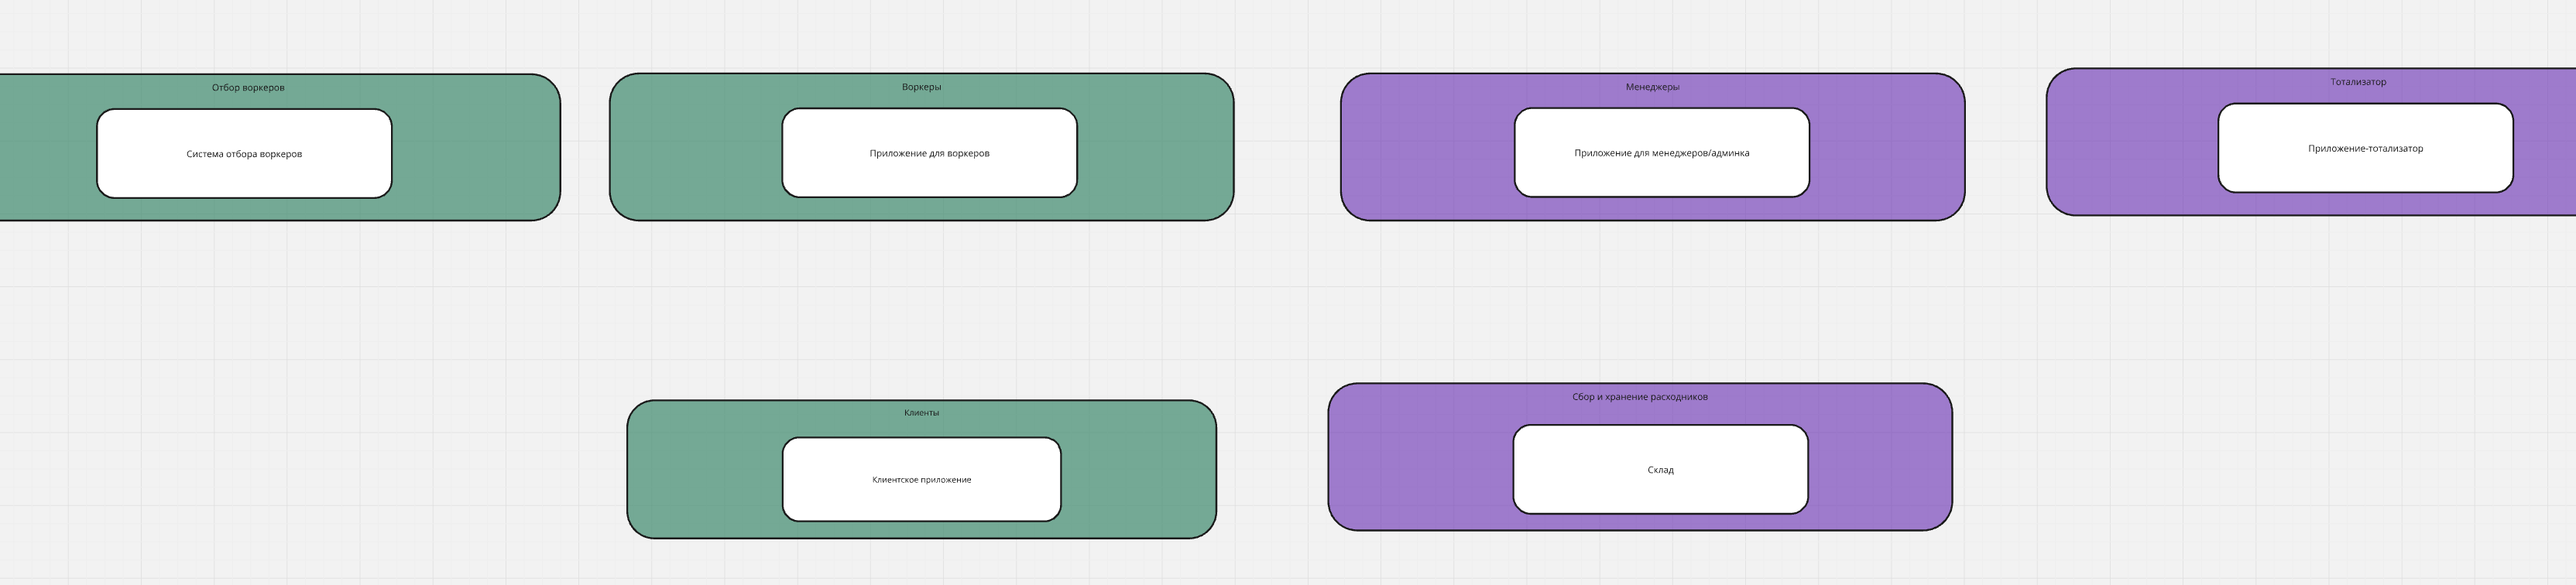
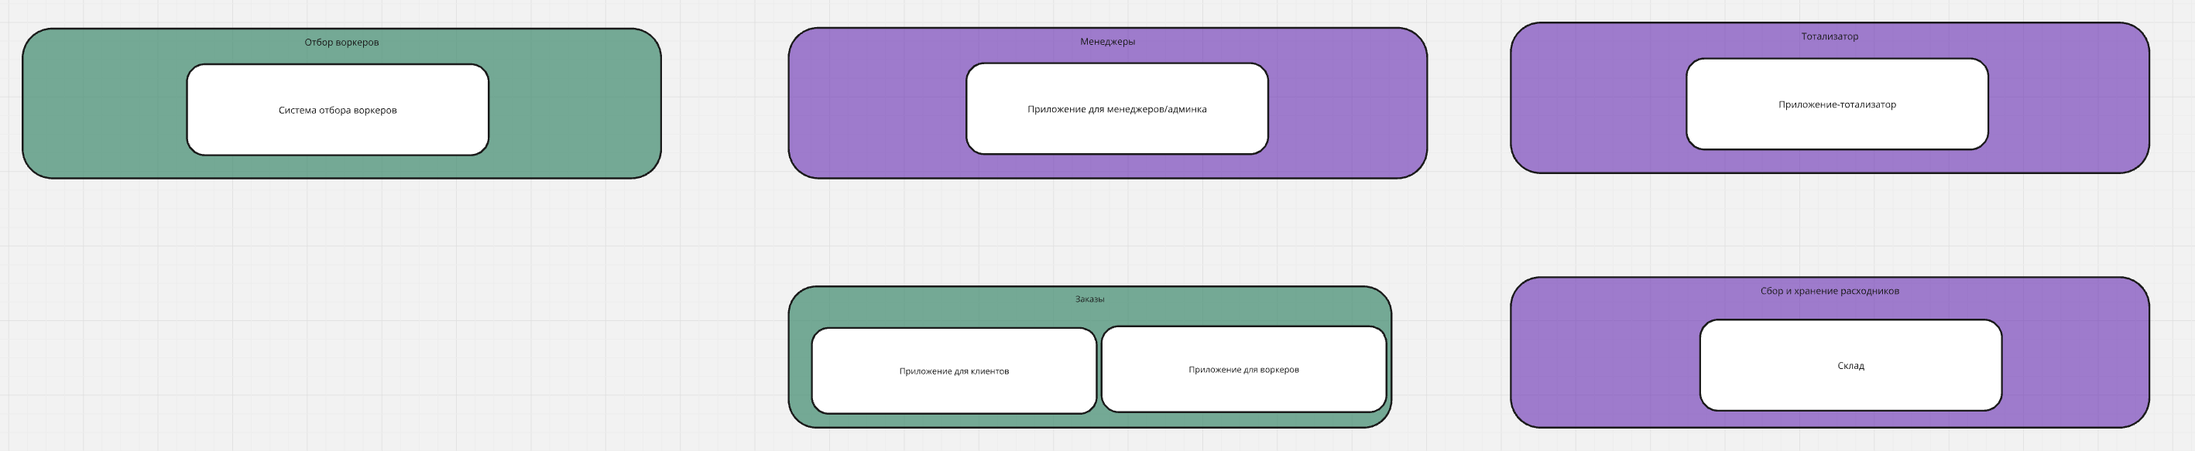
week 2

diff --git a/week_2/README.md b/week_2/README.md
@@ -40,38 +40,40 @@
 заказы).
 2. Отбор воркеров. Тоже кажется логически обособленный юнит - все что в нем происходит не связано с другими частями системы - нужно
 просто как-то отобрать воркеров по внутренним правилам. Плюс попутно учитываем требование про ddos, хотя оно конечно не определяющее.
-3. Клиенты. Кажется что взгляд на систему с точки зрения клиентов отличается и от менеджеров и от воркеров. Ну и язык на котором
-бизнес описывает процесс с точки зрения разных пользователей будет разным. Сюда же можно отнести задачи по списанию денег.
-4. Менеджеры.
-5. Воркеры. По идее можно было бы объединить с поддоменом отбора, но мне все же кажется лучше разделить, так как разные задачи. 
-В этом поддомене работа с уже зарегистрированными воркерами. Сюда же можно отнести задачи по начислению денег.
-6. Сбор и хранение расходников.
+3. Заказы. Сначала я думал что стоит сделать разделение на клиентский и воркерский поддомен. Но мысль о том что на самом деле есть связь по данным (
+так как и клиенты и воркеры меняют заказы) натолкнула меня на идею о том что поддомен все же один. Также в этот поддомен войдет работа с платежами.
+4. Сбор и хранение расходников.
+5. Менеджеры.
 
 ## Задания 3/10 и 4/10 - типы поддоменов
 У меня получилась такой график:
 ![core_domain_chart](core_domain_chart.png)
-1. Я решил, что самые важные с точки зрения бизнеса поддомены это работа с клиентами (так как именно клиенты приносят деньги) и отбор воркеров
+1. Я решил, что самые важные с точки зрения бизнеса поддомены это работа с заказами (так как именно заказы приносят деньги) и отбор воркеров
 (потому что именно от того как хорошо мы их будем отбирать и зависит удовлетворение сервисом клиентов, то есть опять же деньги).
 Поэтому два этих поддомена я поставил в верхний правый угол, я бы их вообще поставил в одну точку, но так будет не наглядно, поэтому пришлось рядом.
-2. Часть с воркерами тоже по сути важная и сложная, но она не так влияет на прибыль бизнеса, поэтому я поставил сложность пониже, как индикатор того
-что можно этот функционал делать командам послабее. Differentiation сделал ниже, даже несмотря на то что логика поддомена необычная, потому что
-все равно это скрытая от посторонних глаз функциональность и не является определяющей для бизнеса.
-3. Менеджерская часть это поддерживающий функционал, напрямую не влияет на работоспособность всего бизнеса.
-4. Часть со сбором и хранением расходников посчитал тоже поддерживающей, несмотря на то что напрямую на работоспособность она влияет, можно для части
+2. Менеджерская часть это поддерживающий функционал, напрямую не влияет на работоспособность всего бизнеса.
+3. Часть со сбором и хранением расходников посчитал тоже поддерживающей, несмотря на то что напрямую на работоспособность она влияет, можно для части
 задач в целом попытаться воспользоваться какими-то готовыми решениями.
-5. Ну и часть с тотализатором самая не важная, но к generic ее сложно отнести из-за специфических требований. Хотя в целом можно было бы найти 
+4. Ну и часть с тотализатором самая не важная, но к generic ее сложно отнести из-за специфических требований. Хотя в целом можно было бы найти 
 какой-то готовый тотализатор и замапить наши сущности в сущности тотализатора - наши менеджеры стали бы участниками, а заказы - событиями.
 
 ## Задание 5/10 - боундед контексты
 ![bounded_contexts](bounded_contexts.png)
-Получилось по одному контексту на каждый домен. Попытался подумать над тем может ли для каких-то поддоменов быть несколько контекстов, но не придумал.
+Получилось по одному контексту на каждый домен за исключением заказов. Там думаю будет разделение на клиентскую и воркерскую часть потому что 
+терминология по одному и тому же заказу с точки зрения воркера и с точки зрения клиента может быть разной.
 
 ## Задание 6/10 - расхождения
-У меня получились небольшие расхождения - части с регистрациями из ES можно было бы вынести в поддомен.
-Еще была часть в ES с кронами отслеживающими заказы, это по смыслу можно унести в воркерскую часть.
-Ну и билинг тоже распадается на 2 части - воркерскую и клиентскую.
+У меня получились такие расхождения:
+1. Части с регистрациями из ES можно было бы вынести в поддомен.
+2. Воркерскую и клиентскую часть стоит мне кажется объединить. Я не успел сделать модель данных, но очевидно что обе эти части будут менять заказы,
+поэтому и стоит выделить.
+3. Часть с кронами и биллинг тоже по смыслу можно вынести в заказный поддомен.
+
+Меня только смущает что выделенная часть с заказами получилась слишком большой.
+
 Расхождения получились думаю потому что с точки зрения последовательности действий части были независимы. Но с точки зрения людей которые будут 
-заниматься поддержкой всего функционала и разбираться в области они связаны.
+заниматься поддержкой всего функционала и разбираться в области они связаны, плюс зависимость по данным (и клиенты и воркеры меняют один заказ).
 
 ## Задание 7/10 - измененная схема.
+Ссылка https://miro.com/app/board/uXjVPeG5wXM=/?moveToWidget=3458764593161037839&cot=14
 ![es_fixed](es_fixed.png)
